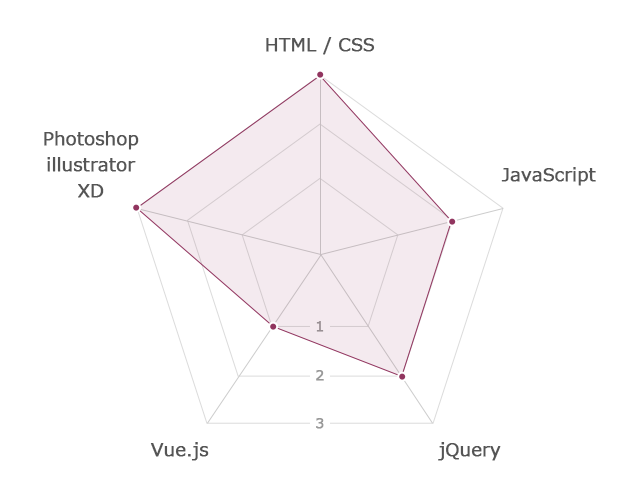
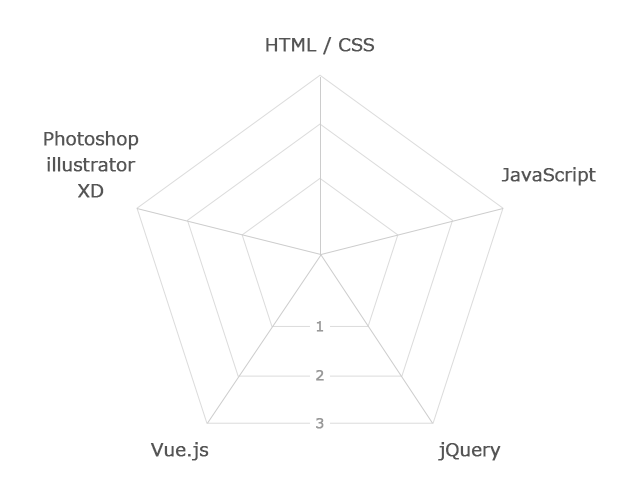
Add files via upload

diff --git a/css/index.css b/css/index.css
@@ -14,6 +14,112 @@ body {
 }
 
 
+/* loading -------------------*/
+#loading.action {
+	animation-name: anime1;
+	animation-duration: 1.5s;
+	animation-delay: .5s;
+	animation-fill-mode: forwards;
+}
+@keyframes anime1 {
+	100% {
+		opacity: 0;
+		z-index: -1;
+	}
+}
+
+/* amination */
+.sk-folding-cube {
+	width: 30px;
+	height: 30px;
+	margin: auto;
+	position: relative;
+	-webkit-transform: rotateZ(45deg);
+			transform: rotateZ(45deg);
+  }
+  .sk-folding-cube .sk-cube {
+	float: left;
+	width: 50%;
+	height: 50%;
+	position: relative;
+	-webkit-transform: scale(1.1);
+		-ms-transform: scale(1.1);
+			transform: scale(1.1);
+  }
+  .sk-folding-cube .sk-cube:before {
+	content: '';
+	position: absolute;
+	top: 0;
+	left: 0;
+	width: 100%;
+	height: 100%;
+	background-color: rgba(255,255,255,.8);
+	-webkit-animation: sk-foldCubeAngle 2.4s infinite linear both;
+			animation: sk-foldCubeAngle 2.4s infinite linear both;
+	-webkit-transform-origin: 100% 100%;
+		-ms-transform-origin: 100% 100%;
+			transform-origin: 100% 100%;
+  }
+  .sk-folding-cube .sk-cube2 {
+	-webkit-transform: scale(1.1) rotateZ(90deg);
+			transform: scale(1.1) rotateZ(90deg);
+  }
+  .sk-folding-cube .sk-cube3 {
+	-webkit-transform: scale(1.1) rotateZ(180deg);
+			transform: scale(1.1) rotateZ(180deg);
+  }
+  .sk-folding-cube .sk-cube4 {
+	-webkit-transform: scale(1.1) rotateZ(270deg);
+			transform: scale(1.1) rotateZ(270deg);
+  }
+  .sk-folding-cube .sk-cube2:before {
+	-webkit-animation-delay: 0.3s;
+			animation-delay: 0.3s;
+  }
+  .sk-folding-cube .sk-cube3:before {
+	-webkit-animation-delay: 0.6s;
+			animation-delay: 0.6s;
+  }
+  .sk-folding-cube .sk-cube4:before {
+	-webkit-animation-delay: 0.9s;
+			animation-delay: 0.9s;
+  }
+  @-webkit-keyframes sk-foldCubeAngle {
+	0%, 10% {
+	  -webkit-transform: perspective(140px) rotateX(-180deg);
+			  transform: perspective(140px) rotateX(-180deg);
+	  opacity: 0;
+	} 25%, 75% {
+	  -webkit-transform: perspective(140px) rotateX(0deg);
+			  transform: perspective(140px) rotateX(0deg);
+	  opacity: 1;
+	} 90%, 100% {
+	  -webkit-transform: perspective(140px) rotateY(180deg);
+			  transform: perspective(140px) rotateY(180deg);
+	  opacity: 0;
+	}
+  }
+  @keyframes sk-foldCubeAngle {
+	0%, 10% {
+	  -webkit-transform: perspective(140px) rotateX(-180deg);
+			  transform: perspective(140px) rotateX(-180deg);
+	  opacity: 0;
+	} 25%, 75% {
+	  -webkit-transform: perspective(140px) rotateX(0deg);
+			  transform: perspective(140px) rotateX(0deg);
+	  opacity: 1;
+	} 90%, 100% {
+	  -webkit-transform: perspective(140px) rotateY(180deg);
+			  transform: perspective(140px) rotateY(180deg);
+	  opacity: 0;
+	}
+  }
+  #loading p {
+	  margin-top: 2rem;
+	  color: #fff;
+  }
+
+
 /* wrap -------------------*/
 .wrap {
 	background: #dcdadf;
@@ -52,7 +158,29 @@ h1 + p {
 	color: #a66382;
 	font-weight: bold;
 }
-.animated {
+#scroll {
+	display: inline-block;
+	/* opacity: 0; */
+	position: absolute;
+	color: #91355f;
+	transition: 1s;
+	/* animation-name: scroll;
+	animation-duration: 1s;
+	animation-iteration-count: infinite; */
+	bottom: 0;
+	left: 50%;
+	transform: rotate(45deg) translate(-72%);
+	border-right: 1px solid;
+	border-bottom: 1px solid;
+	width: 30px;
+	height: 30px;
+}
+/* @keyframes scroll {
+	0% {bottom: .5rem;}
+	90% {bottom: 0;}
+	100% {bottom: .5rem;}
+} */
+.animated, #scroll.animated {
 	opacity: 1;
 }
 @media screen and (max-width: 660px) {
@@ -167,9 +295,33 @@ h2 {
 .skill_list > div {
 	width: 47.5%;
 }
-.skill_list img {
+.skill_img > div {
+	position: relative;
+}
+.skill_img > div > img {
 	border: 2px solid #ececec;
 	line-height: 1.4;
+}
+#skill_img_inner {
+	position: absolute;
+	display: table;
+	top: 0;
+	left: 0;
+	width: 100%;
+	height: 100%;
+	padding: 2px;
+}
+#skill_img_inner > div {
+	display: table-cell;
+	vertical-align: middle;
+	text-align: center;
+}
+#skill_img_inner img {
+	width: 0;
+	transition: 1s;
+}
+#skill_img_inner.active img {
+	width: 100%;
 }
 #skill p {
 	margin-bottom: 1rem;

diff --git a/css/common.css b/css/common.css
@@ -52,108 +52,3 @@ a {
 	flex-wrap: wrap;
 }
 
-
-/* loading -------------------*/
-#loading.action {
-	animation-name: anime1;
-	animation-duration: 1.5s;
-	animation-delay: 1s;
-	animation-fill-mode: forwards;
-}
-@keyframes anime1 {
-	100% {
-		opacity: 0;
-		z-index: -1;
-	}
-}
-
-/* amination */
-.sk-folding-cube {
-  width: 30px;
-  height: 30px;
-  margin: auto;
-  position: relative;
-  -webkit-transform: rotateZ(45deg);
-          transform: rotateZ(45deg);
-}
-.sk-folding-cube .sk-cube {
-  float: left;
-  width: 50%;
-  height: 50%;
-  position: relative;
-  -webkit-transform: scale(1.1);
-      -ms-transform: scale(1.1);
-          transform: scale(1.1);
-}
-.sk-folding-cube .sk-cube:before {
-  content: '';
-  position: absolute;
-  top: 0;
-  left: 0;
-  width: 100%;
-  height: 100%;
-  background-color: rgba(255,255,255,.8);
-  -webkit-animation: sk-foldCubeAngle 2.4s infinite linear both;
-          animation: sk-foldCubeAngle 2.4s infinite linear both;
-  -webkit-transform-origin: 100% 100%;
-      -ms-transform-origin: 100% 100%;
-          transform-origin: 100% 100%;
-}
-.sk-folding-cube .sk-cube2 {
-  -webkit-transform: scale(1.1) rotateZ(90deg);
-          transform: scale(1.1) rotateZ(90deg);
-}
-.sk-folding-cube .sk-cube3 {
-  -webkit-transform: scale(1.1) rotateZ(180deg);
-          transform: scale(1.1) rotateZ(180deg);
-}
-.sk-folding-cube .sk-cube4 {
-  -webkit-transform: scale(1.1) rotateZ(270deg);
-          transform: scale(1.1) rotateZ(270deg);
-}
-.sk-folding-cube .sk-cube2:before {
-  -webkit-animation-delay: 0.3s;
-          animation-delay: 0.3s;
-}
-.sk-folding-cube .sk-cube3:before {
-  -webkit-animation-delay: 0.6s;
-          animation-delay: 0.6s;
-}
-.sk-folding-cube .sk-cube4:before {
-  -webkit-animation-delay: 0.9s;
-          animation-delay: 0.9s;
-}
-@-webkit-keyframes sk-foldCubeAngle {
-  0%, 10% {
-    -webkit-transform: perspective(140px) rotateX(-180deg);
-            transform: perspective(140px) rotateX(-180deg);
-    opacity: 0;
-  } 25%, 75% {
-    -webkit-transform: perspective(140px) rotateX(0deg);
-            transform: perspective(140px) rotateX(0deg);
-    opacity: 1;
-  } 90%, 100% {
-    -webkit-transform: perspective(140px) rotateY(180deg);
-            transform: perspective(140px) rotateY(180deg);
-    opacity: 0;
-  }
-}
-@keyframes sk-foldCubeAngle {
-  0%, 10% {
-    -webkit-transform: perspective(140px) rotateX(-180deg);
-            transform: perspective(140px) rotateX(-180deg);
-    opacity: 0;
-  } 25%, 75% {
-    -webkit-transform: perspective(140px) rotateX(0deg);
-            transform: perspective(140px) rotateX(0deg);
-    opacity: 1;
-  } 90%, 100% {
-    -webkit-transform: perspective(140px) rotateY(180deg);
-            transform: perspective(140px) rotateY(180deg);
-    opacity: 0;
-  }
-}
-#loading p {
-	margin-top: 2rem;
-	color: #fff;
-}

diff --git a/index.html b/index.html
@@ -15,6 +15,7 @@
 <link rel="shortcut icon" type="image/x-icon" href="/img/favicon.ico">
 <style>
 #loading {
+	font-family: 'Lexend Deca';
 	position: fixed;
 	z-index: 200;
 	opacity: 1;
@@ -50,6 +51,7 @@
 				<h1 id="animate1" data-anijs="if: animationend, on: #loading, do: animated bounceInDown">portfolio</h1>
 				<p id="animate2" data-anijs="if: animationend, on: #animate1, do: animated flipInX">KYOKO NOZAKI</p>
 			</div>
+			<p id="scroll"></p>
 		</div>
 	</section>
 
@@ -130,8 +132,13 @@
 		<div class="inner">
 			<h2>skill</h2>
 			<div class="flex skill_list">
-				<div>
-					<img src="img/skill_graph.png" alt="HTML/CSS：3, JavaScript：2, jQuery：2, Veu.js：1, Photoshop/illustrator/XD：3">
+				<div class="skill_img">
+					<div>
+						<img src="img/skill_graph.png" alt="スキルグラフ下地">
+						<div id="skill_img_inner">
+							<div><img src="img/skill_graph_line.png" alt="HTML/CSS：3, JavaScript：2, jQuery：2, Veu.js：1, Photoshop/illustrator/XD：3"></div>
+						</div>
+					</div>
 				</div>
 				<div>
 					<p>
@@ -189,6 +196,19 @@
 		const position = target.offset().top + 30;
 		$('html, body').animate({scrollTop:position}, 500, 'swing');
 		return false;
+	});
+
+	const profImg = $('#prof_img');
+	const skillImg = $('#skill_img_inner');
+	window.addEventListener('scroll', function() {
+		let h = $(window).innerHeight();
+		let st = $(window).scrollTop();
+		let scroll = st + h - (h / 2);
+
+		let offsetSkill = skillImg.offset().top;
+		if (offsetSkill < scroll + 30) {
+			skillImg.addClass('active');
+		}
 	});
 }
 
